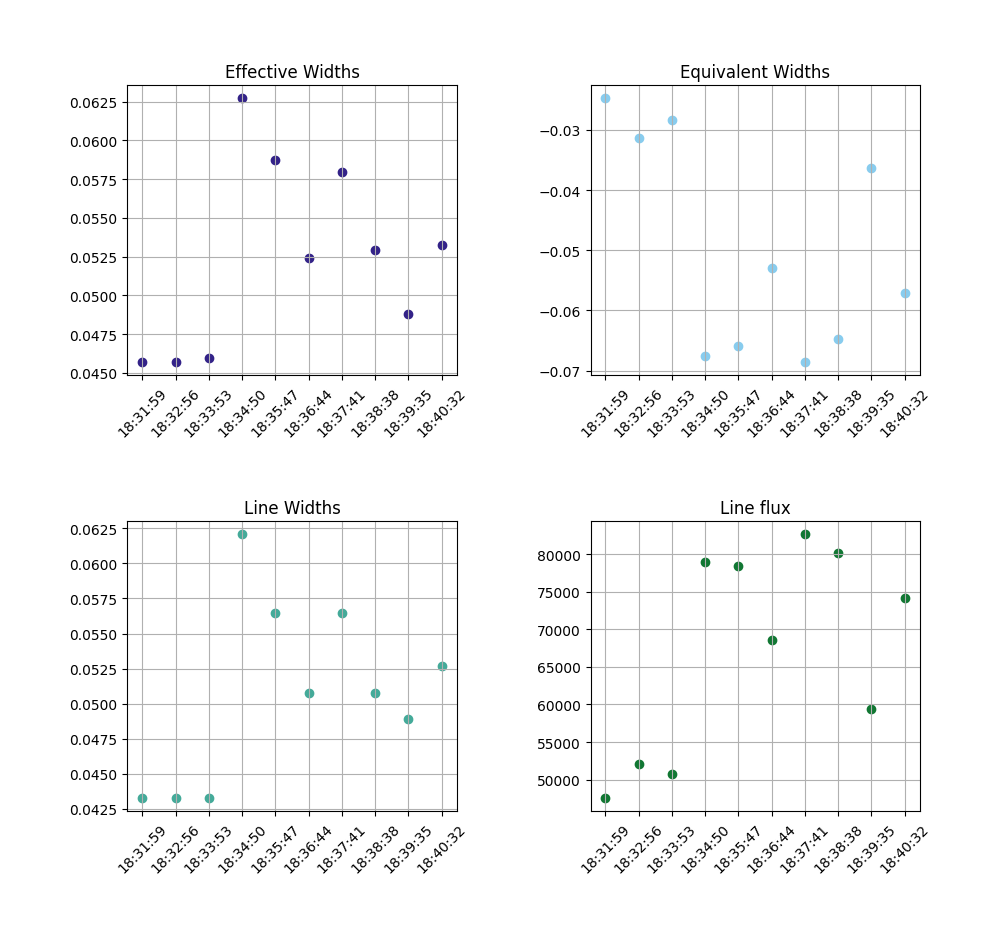
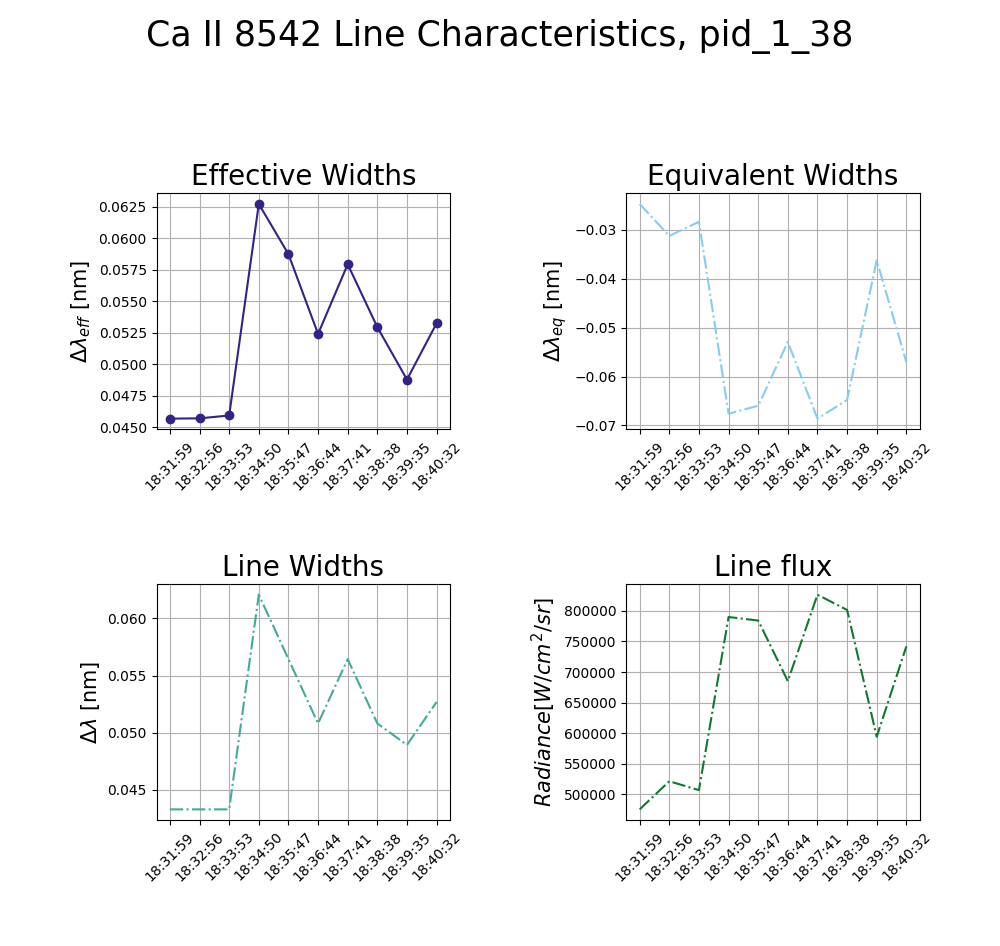
line characteristics plotting routines improvements

diff --git a/dkistpkg_ct.py b/dkistpkg_ct.py
@@ -799,7 +799,7 @@ def widths_strengths_oneline(ew_line_all_fs,eqw_line_all_fs,width_line_all_fs,
             eqw_line = integrate.cumtrapz(integrand2[line_low:line_high],
                                           dispersion_range[line_low:line_high])\
                 [-1]
-            int_line = integrate.cumtrapz(sel,selwl)[-1]
+            int_line = integrate.cumtrapz(sel,selwl)[-1]*10
             print(int_line)
             print(i)
             print(j)
@@ -830,7 +830,7 @@ def widths_strengths_oneline(ew_line_all_fs,eqw_line_all_fs,width_line_all_fs,
 # NOTE: Add plotting routine for widths?
 def plt_line_characteristics(ew_line_all_fs,eqw_line_all_fs,width_line_all_fs,
                              int_line_all_fs,maxindices,times,muted,pid='pid_1_84',nslitpos=4,raster=0,
-                             nframes=7):
+                             nframes=7,line='Ca II H'):
     
     # defined quantites are all for pid_1_84
     # raster is start position to begin tracking
@@ -853,16 +853,26 @@ def plt_line_characteristics(ew_line_all_fs,eqw_line_all_fs,width_line_all_fs,
         kernindwidths.append(width_line_all_fs[raster+nslitpos*i,maxindices[raster+nslitpos*i]])
         kernindflxs.append(int_line_all_fs[raster+nslitpos*i,maxindices[raster+nslitpos*i]])
     
-    fig,[[ax0,ax1],[ax2,ax3]]=plt.subplots(2,2,figsize=(10,10))
-    ax0.scatter(timeshhmmss[raster::nslitpos],kernindews,color=muted[0])
-    ax1.scatter(timeshhmmss[raster::nslitpos],kernindeqws,color=muted[1])
-    ax2.scatter(timeshhmmss[raster::nslitpos],kernindwidths,color=muted[2])
-    ax3.scatter(timeshhmmss[raster::nslitpos],kernindflxs,color=muted[3])
+    print(np.shape(timeshhmmss[raster::nslitpos]))
+    print(np.shape(kernindews))
     
-    ax0.set_title('Effective Widths')
-    ax1.set_title('Equivalent Widths')
-    ax2.set_title('Line Widths')
-    ax3.set_title('Line flux')
+    fig,[[ax0,ax1],[ax2,ax3]]=plt.subplots(2,2,figsize=(10,10))
+    fig.suptitle(line+' Line Characteristics, '+pid+'',fontsize=25)
+    ax0.plot(timeshhmmss[raster::nslitpos],kernindews,'-o',color=muted[0])
+    ax1.plot(timeshhmmss[raster::nslitpos],kernindeqws,'-o',color=muted[1])
+    ax2.plot(timeshhmmss[raster::nslitpos],kernindwidths,'-o',color=muted[2])
+    ax3.plot(timeshhmmss[raster::nslitpos],kernindflxs,'-o',color=muted[3])
+    
+    ax0.set_ylabel(r'$\Delta\lambda_{eff}$ [nm]',fontsize=15)
+    ax1.set_ylabel(r'$\Delta\lambda_{eq}$ [nm]',fontsize=15)
+    ax2.set_ylabel(r'$\Delta\lambda$ [nm]',fontsize=15)
+    ax3.set_ylabel(r'$Radiance [W/cm^2/sr]$',fontsize=15)
+    
+    
+    ax0.set_title('Effective Widths',fontsize=20)
+    ax1.set_title('Equivalent Widths',fontsize=20)
+    ax2.set_title('Line Widths',fontsize=20)
+    ax3.set_title('Line flux',fontsize=20)
     
     ax0.grid()
     ax1.grid()
